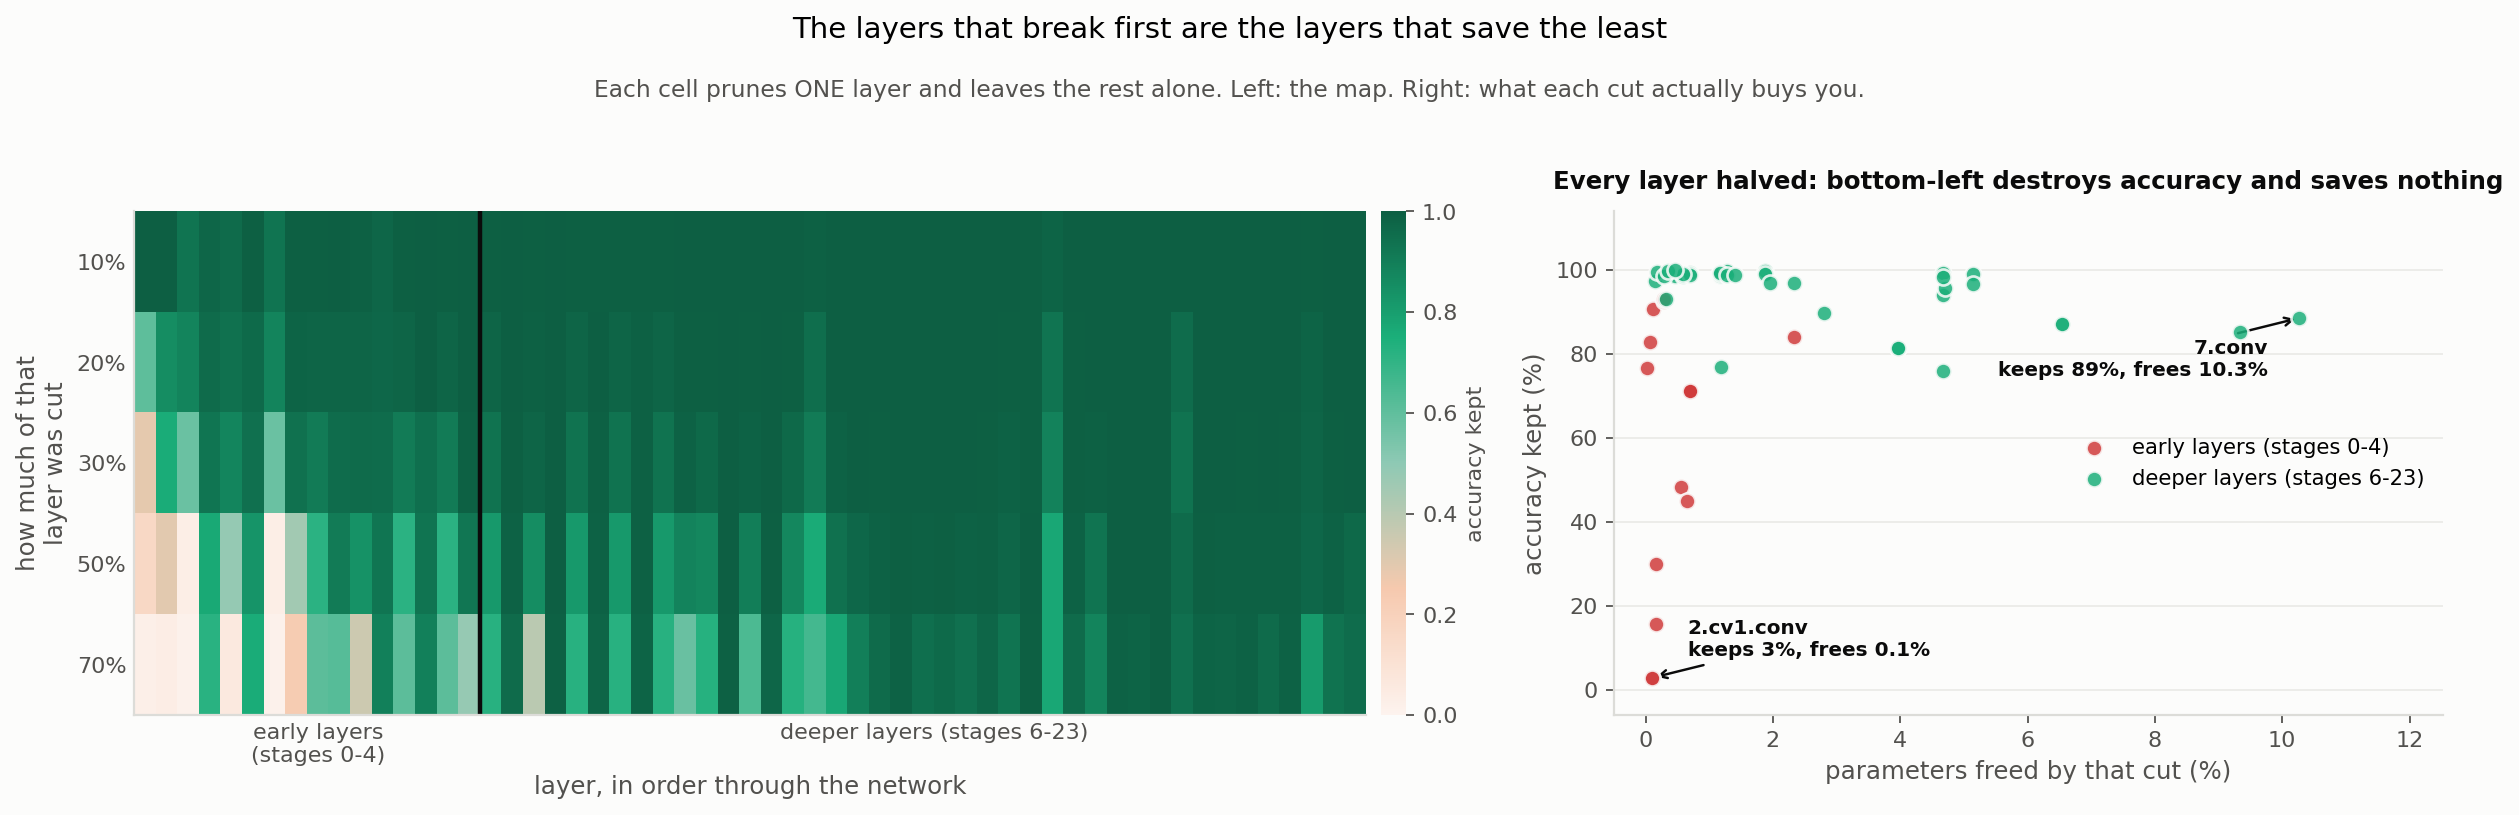
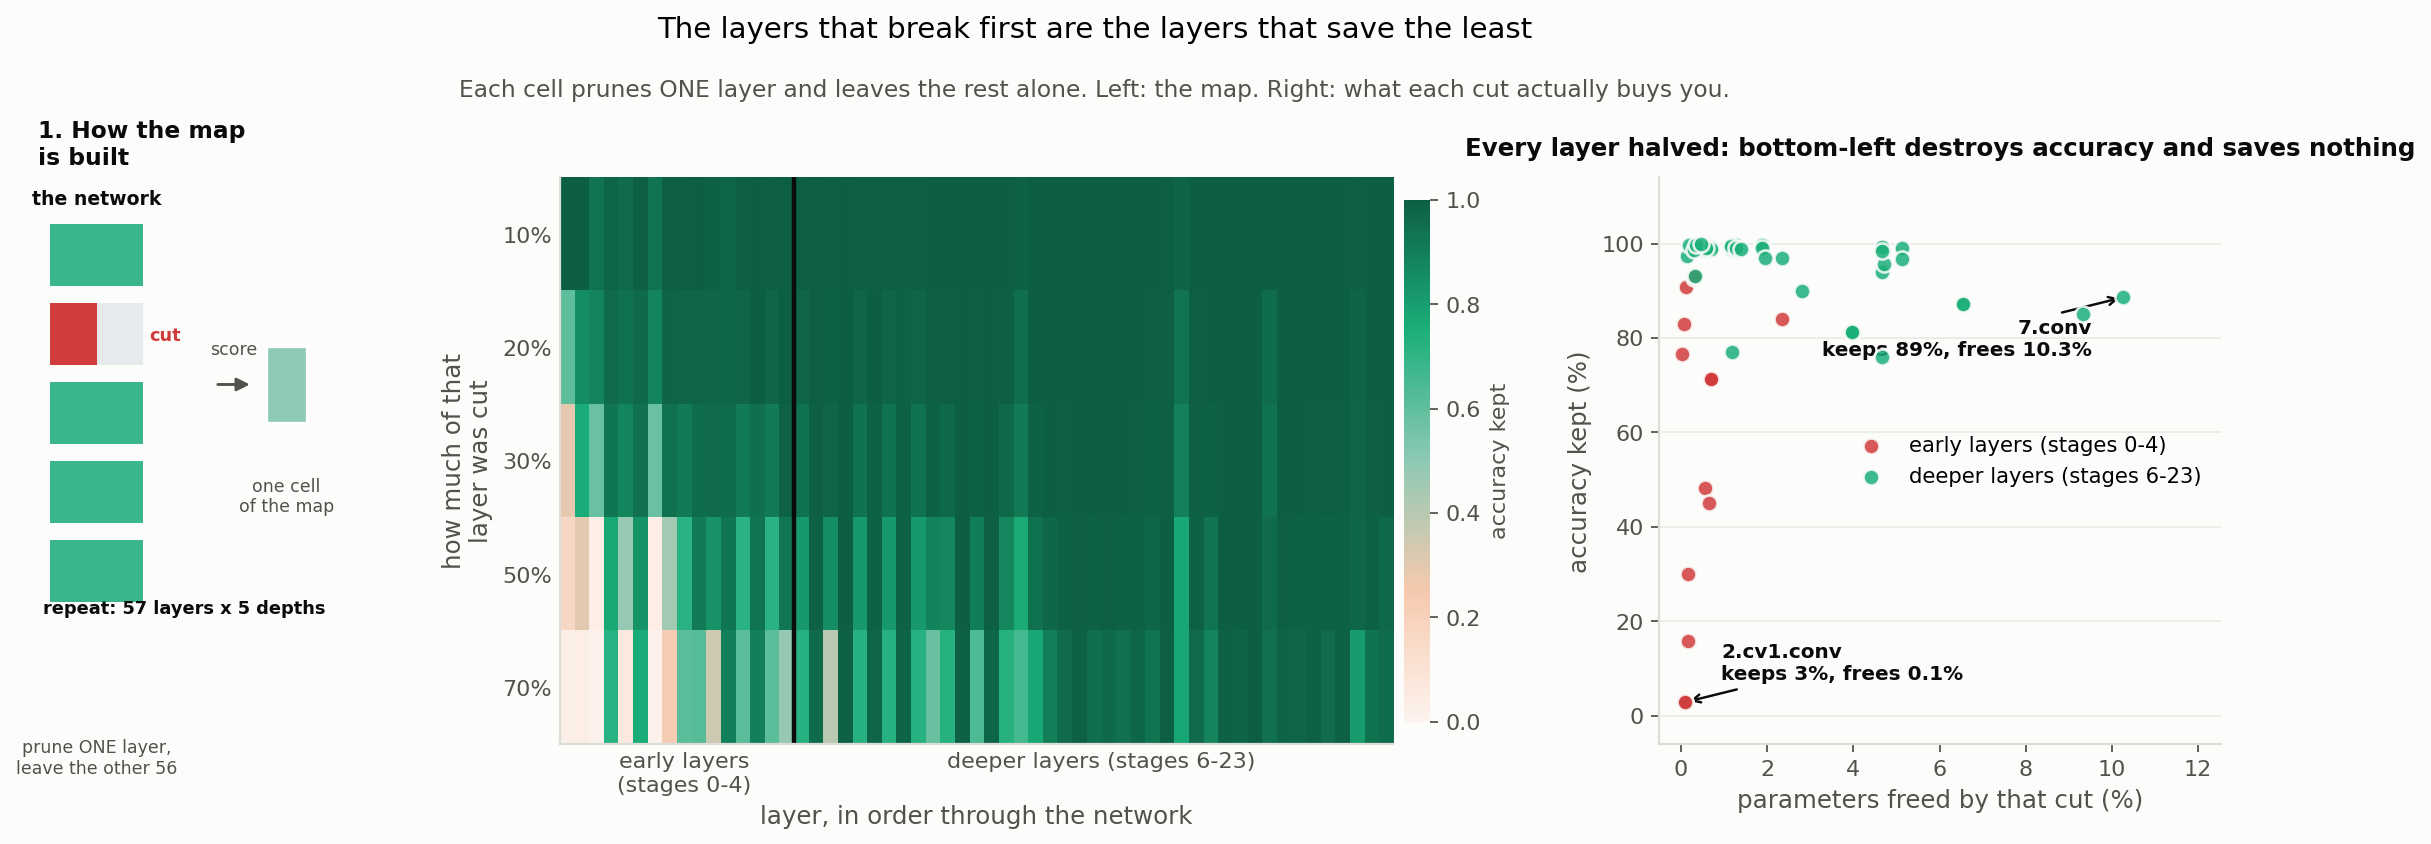
XP6 E1 figure: add a panel 1 showing how the map is built
A schematic now leads: the network as a stack of layers with one cut and the
other 56 left whole, an arrow to the single heatmap cell that trial produces,
and 'repeat 57 layers x 5 depths'. It names the method before the map and the
trade-off scatter. Widened the column spacing so the colorbar label no longer
meets the scatter's y-axis label.

diff --git a/analysis/make_figures.py b/analysis/make_figures.py
@@ -619,13 +619,51 @@ def fig_xp06e1(records) -> Path | None:
     cmap = LinearSegmentedColormap.from_list(
         "retained", ["#fdf3ee", "#f6c9ae", "#8ec9b4", "#1baf7a", "#0d5f43"])
 
-    fig, axes = plt.subplots(1, 2, figsize=(15.5, 4.6),
-                             gridspec_kw={"width_ratios": [1.55, 1]})
+    from matplotlib.patches import Rectangle, FancyArrowPatch
+    fig = plt.figure(figsize=(17.6, 4.6))
+    gs = fig.add_gridspec(1, 3, width_ratios=[0.52, 1.55, 1], wspace=0.40)
+    sch = fig.add_subplot(gs[0, 0])
+    axes = [fig.add_subplot(gs[0, 1]), fig.add_subplot(gs[0, 2])]
     fig.suptitle("The layers that break first are the layers that save the least", y=1.10)
     style.subtitle(fig, "Each cell prunes ONE layer and leaves the rest alone. Left: the map. "
                         "Right: what each cut actually buys you.", y=1.015)
 
-    # ---- panel 1: the map ------------------------------------------------
+    # --- panel 1: how the map is built ------------------------------------
+    # One layer is pruned while the other 56 are left whole, the model is scored,
+    # and that one number becomes one cell of the heatmap. Repeat for every layer
+    # at every depth. The schematic shows a single trial and names the sweep.
+    sch.set_xlim(0, 10); sch.set_ylim(-1.0, 9.4); sch.axis("off")
+    sch.set_title("1. How the map\nis built", fontsize=10.5, pad=6, loc="left")
+    cut_idx = 1
+    for k in range(5):
+        y = 7.4 - k * 1.45
+        cut = k == cut_idx
+        sch.add_patch(Rectangle((0.4, y), 3.2, 1.15, facecolor="#e6eaec",
+                                edgecolor="none", zorder=2))
+        if cut:
+            sch.add_patch(Rectangle((0.4, y), 3.2 * 0.5, 1.15, facecolor=style.RED,
+                                    edgecolor="none", zorder=3))
+            sch.text(3.8, y + 0.55, "cut", ha="left", va="center", fontsize=8,
+                     color=style.RED, fontweight="bold")
+        else:
+            sch.add_patch(Rectangle((0.4, y), 3.2, 1.15, facecolor=style.AQUA,
+                                    edgecolor="none", zorder=3, alpha=0.85))
+    sch.text(2.0, 7.4 + 1.5, "the network", ha="center", fontsize=8.5,
+             fontweight="bold", color=style.INK)
+    sch.text(2.0, -0.9, "prune ONE layer,\nleave the other 56", ha="center", va="top",
+             fontsize=7.8, color=style.INK_2)
+    # arrow to a single heatmap cell
+    sch.add_patch(FancyArrowPatch((6.0, 5.6), (7.4, 5.6), arrowstyle="-|>",
+                                  mutation_scale=12, color=style.INK_2, linewidth=1.3))
+    sch.text(6.7, 6.15, "score", ha="center", fontsize=7.8, color=style.INK_2)
+    sch.add_patch(Rectangle((7.8, 4.9), 1.4, 1.4, facecolor="#8ec9b4", edgecolor="white",
+                            linewidth=1.5, zorder=3))
+    sch.text(8.5, 3.9, "one cell\nof the map", ha="center", va="top", fontsize=7.8,
+             color=style.INK_2)
+    sch.text(5.0, 1.4, "repeat: 57 layers x 5 depths", ha="center", fontsize=8,
+             color=style.INK, fontweight="bold")
+
+    # ---- panel 2 (data): the map -----------------------------------------
     ax = axes[0]
     im = ax.imshow(grid, aspect="auto", cmap=cmap, vmin=0, vmax=1,
                    interpolation="nearest")
